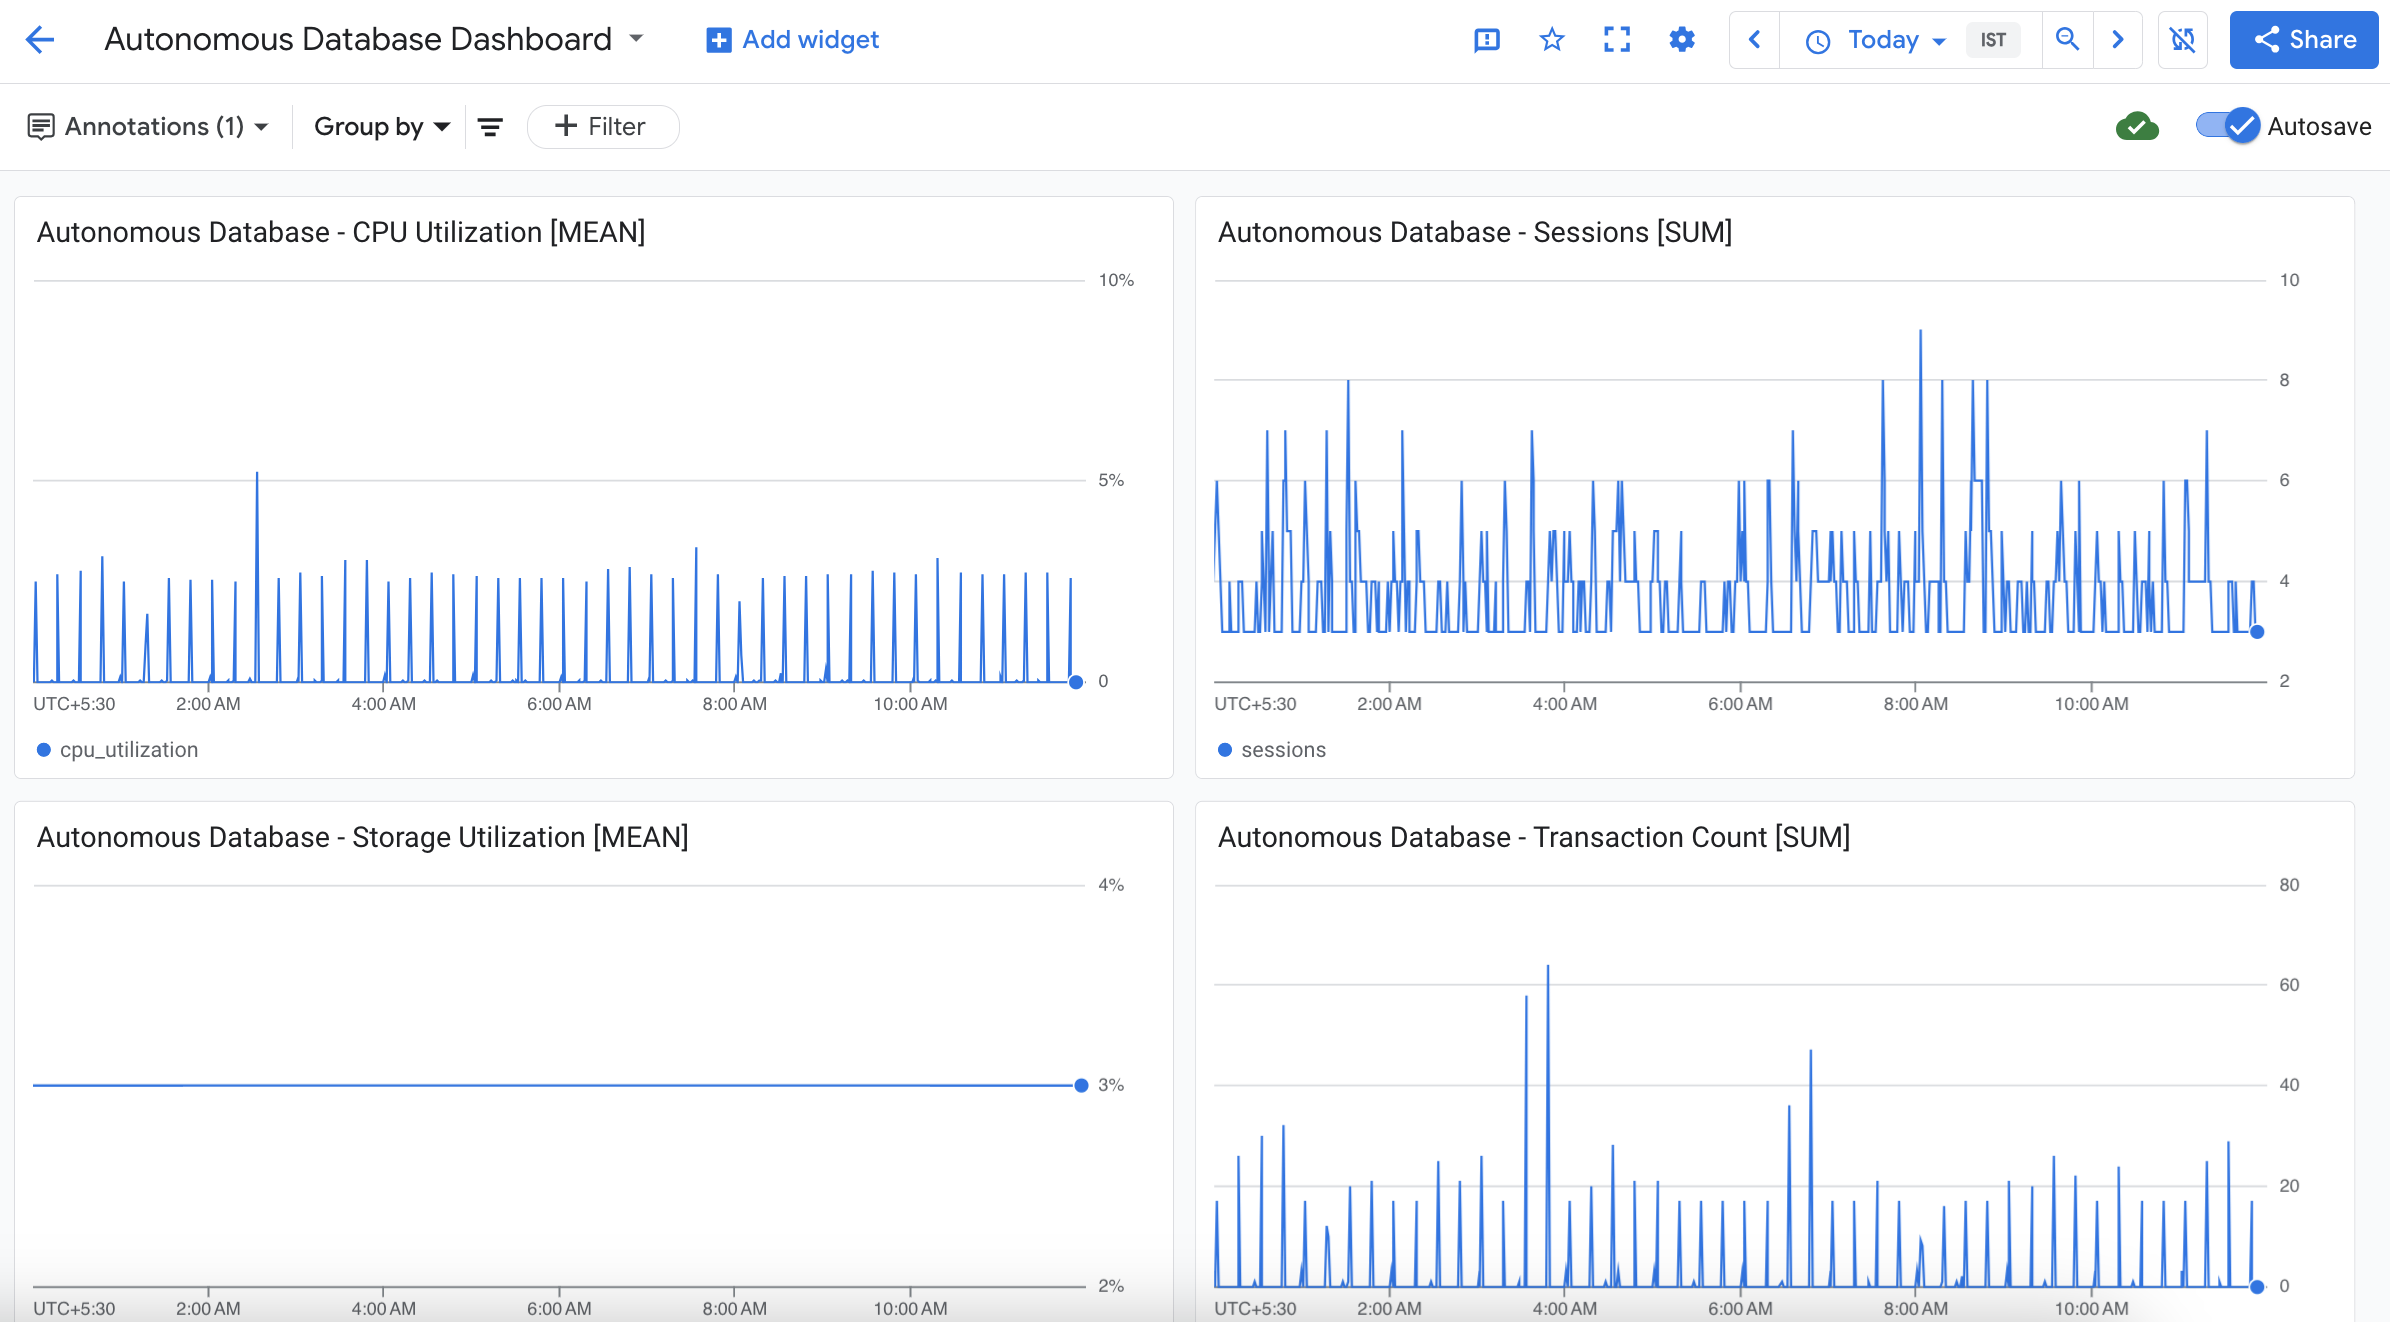
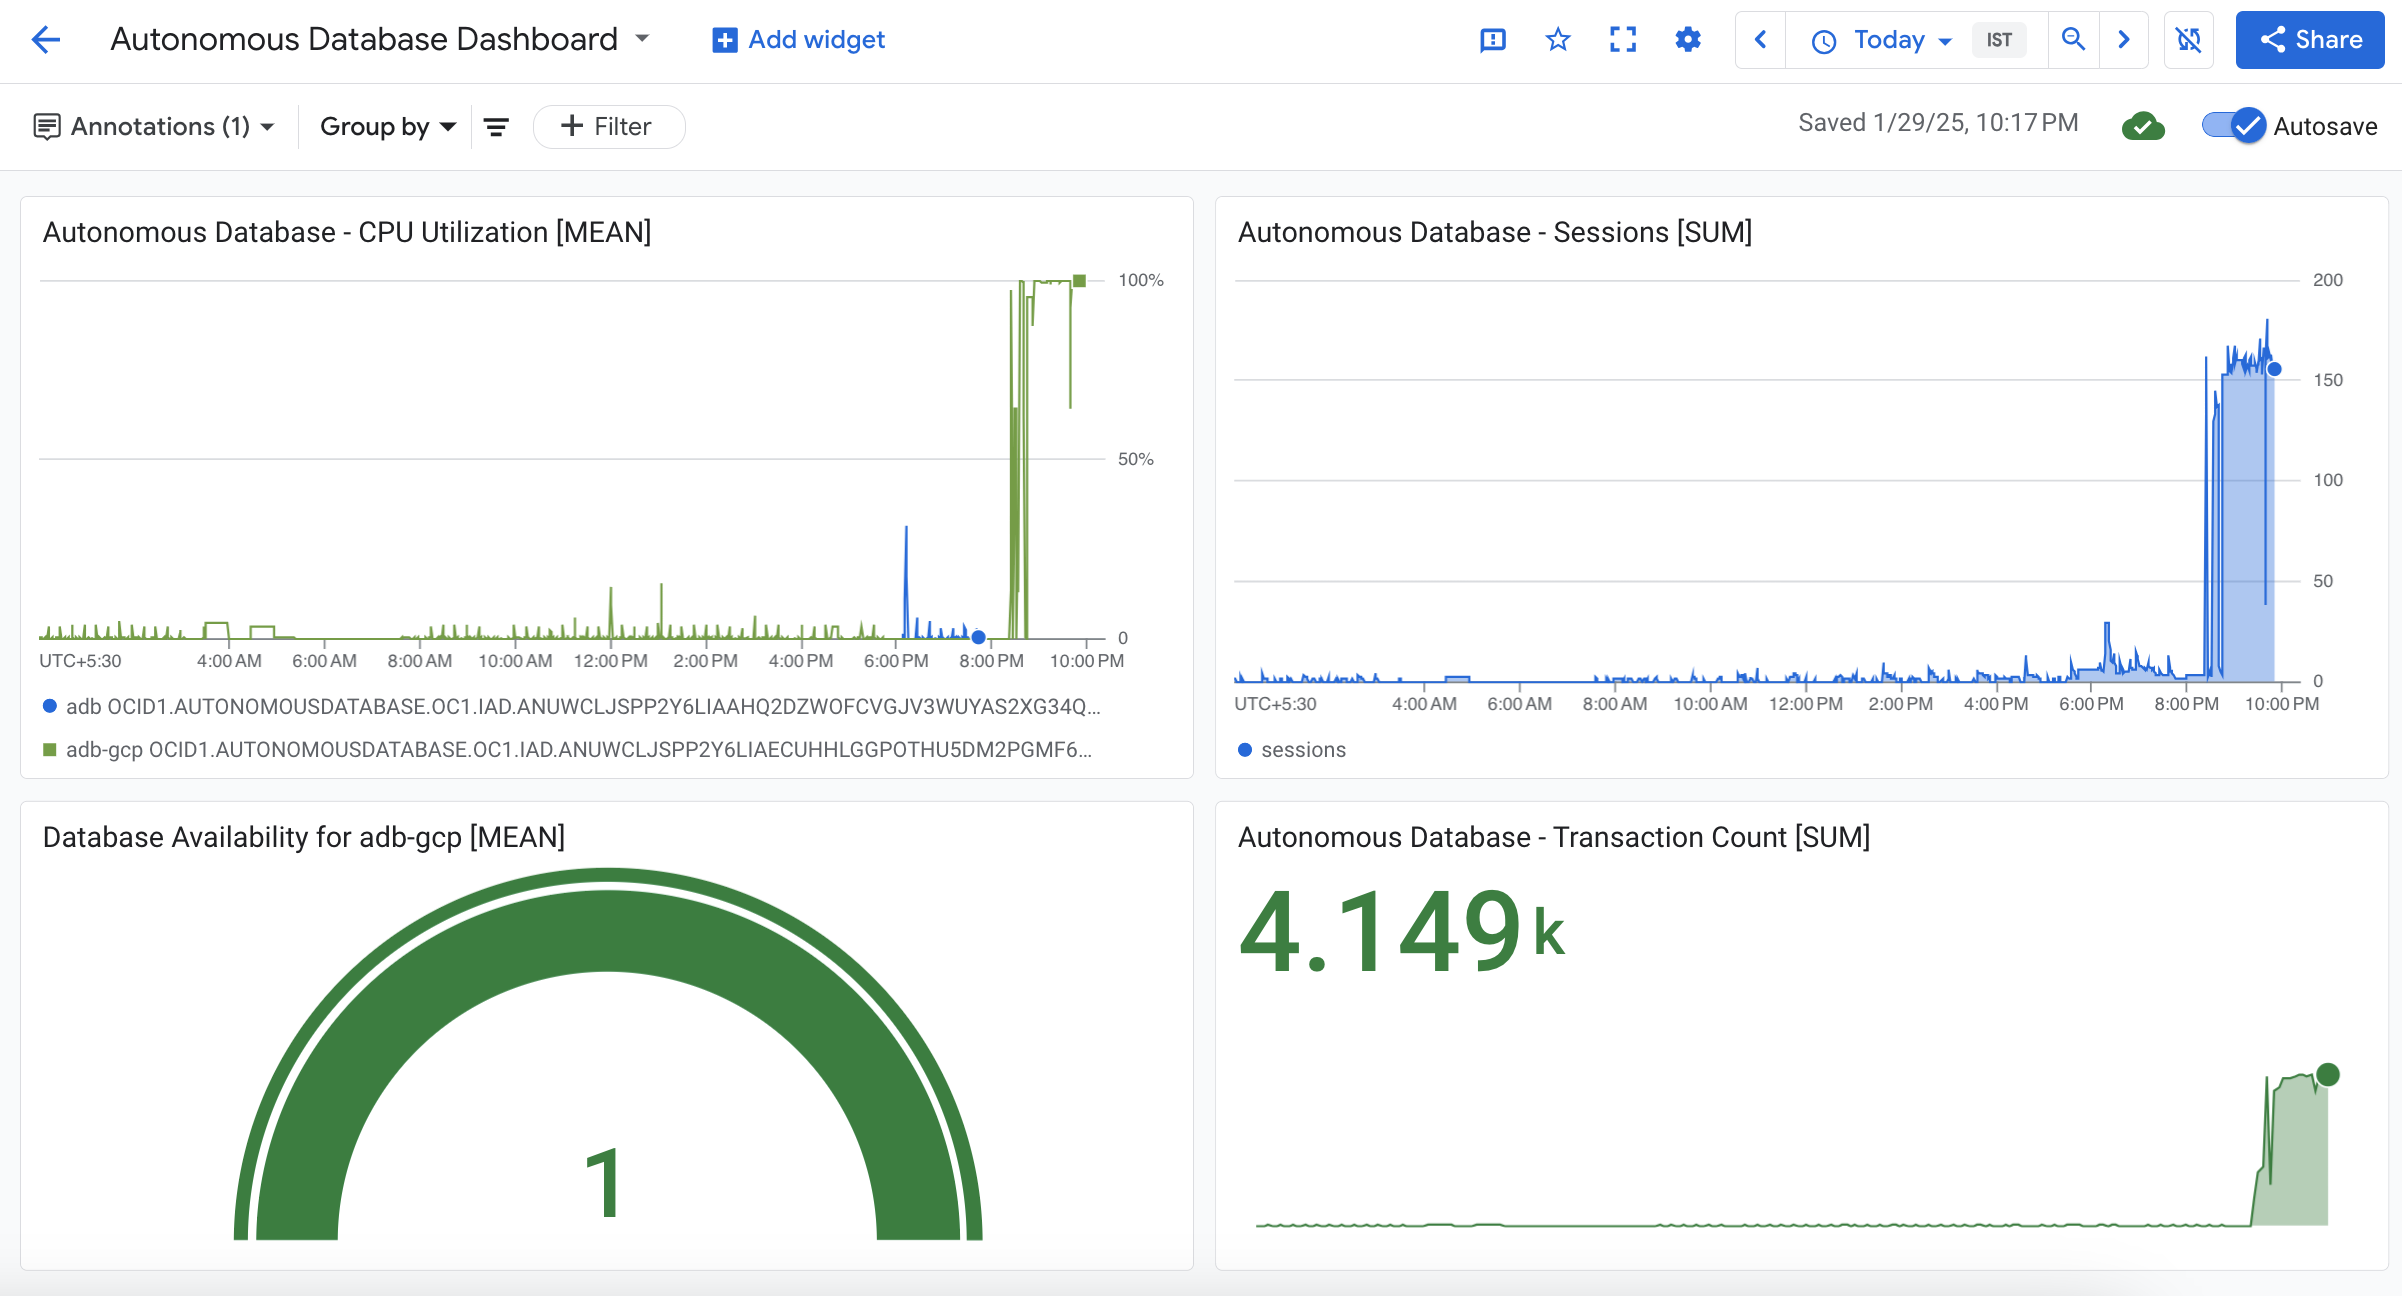
First draft

diff --git a/adb-gcp/connect-to-swingbech-app/connect-to-swingbech-app.md b/adb-gcp/connect-to-swingbech-app/connect-to-swingbech-app.md
@@ -4,6 +4,10 @@
 
 This lab walks you through how to install and configure a workload generation tool called Swingbench and monitor the performance of an Autonomous Database.
 
+Swingbench is a free load generator (and benchmarks) designed to stress test an Oracle database (12c, 18c, 19c, 21c, 23c). The software enables a load to be generated and the transactions/response times to be charted. The tool has both graphical and command line functionality. Learn more about Swingbench [here](https://www.dominicgiles.com/swingbench/).
+
+We will be installing Swingbench and running some fabricated workloads that can be monitored later.
+
 Estimated Time: 10 minutes
 
 ### Objectives
@@ -89,6 +93,8 @@ As an administrator:
 
 3. Download the Autonomous Database wallet file
 
+    **Oracle Autonomous Database** only accepts secure connections to the database. This requires a **'wallet'** file that contains the SQL\*NET configuration files and the secure connection information. Wallets are used by client utilities such as SQL Developer, SQL\*Plus etc. For this workshop, you will use this same wallet mechanism to make a connection from Swingbench to the **Autonomous Database**.
+
 - On the **Autonomous Database** page click the Autonomous Database that was provisioned.
 
     ![Download zip](./images/vm-adb-details.png " ")
@@ -105,7 +111,13 @@ As an administrator:
 
     ![Download zip](./images/adb-download-wallet.png " ")
     
-- Scp or Copy over the Wallet zip file to VM instance.
+- Scp or Copy over the Wallet zip file to VM instance. If you are using a Linux Terminal, run the following command to copy over the wallet to the VM instance -
+
+    ```
+    <copy>
+    scp -i <private_key_file> Wallet_adbgcp.zip <Compute_VM_IP>:/tmp/.
+    </copy>
+    ```
 
 ## Task 3: Connect the Swingbench application to Autonomous database
 
@@ -140,7 +152,7 @@ cd ~/swingbench/bin
 
 ![oewizard](./images/oewizard-verify.png " ")
 
-- Edit the config file to not exceed the login rate
+- Edit the config file :
 
     Run the following command from command line 
 
@@ -169,9 +181,9 @@ sed -i -e 's/<LogonGroupCount>1<\/LogonGroupCount>/<LogonGroupCount>5<\/LogonGro
             -intermax 0 \
             -min 0 \
             -max 0 \
-            -uc 128 \
+            -uc 150 \
             -di SQ,WQ,WA \
-            -rt 0:0.30
+            -rt 1:0.0
     </copy>
     ```
 
@@ -179,6 +191,8 @@ sed -i -e 's/<LogonGroupCount>1<\/LogonGroupCount>/<LogonGroupCount>5<\/LogonGro
     ![Swingbench wizard](./images/swingbench-load-run.png " ")
 
 - You should now see the Transaction happening in your Autonomous database. 
+
+- We are going to monitor the Autonomous Database using Google Cloud Monitoring in the next lab.
 
 ***NOTE: Do not disconnect the Swingbench application***
 

diff --git a/adb-gcp/gcp-get-started/gcp-get-started.md b/adb-gcp/gcp-get-started/gcp-get-started.md
@@ -60,15 +60,19 @@ In this section, you will create a VPC which will have two subnets:
 
 ## Task 2:  Provision Google Cloud Compute VM Instance
 
-1.  From the Google Cloud Console (console.cloud.google.com), click on the **Navigation Menu**. Then click on **VM instances** under **Compute Engine**.
+1.  Generating ssh key pairs
+    
+    SSH keys are required to access a running compute VM instance securely. You can use an existing SSH-2 RSA key pair or create a new one. Instructions for creating SSH keys can also be found on the [OCI documentation page](https://docs.cloud.oracle.com/iaas/Content/GSG/Tasks/creatingkeys.htm). For Linux instances you can generate SSH keys [here](https://docs.oracle.com/en-us/iaas/Content/Compute/Tasks/managingkeypairs.htm#Managing_Key_Pairs_on_Linux_Instances).
+
+2. From the Google Cloud Console (console.cloud.google.com), click on the **Navigation Menu**. Then click on **VM instances** under **Compute Engine**.
 
     ![](./images/compute-vm-navigate.png " ")
 
-2. On the **VM instances** page click **CREATE INSTANCE**
+3. On the **VM instances** page click **CREATE INSTANCE**
 
     ![](./images/compute-vm-create.png " ")
 
-3. Under **Machine configuration** enter the following -
+4. Under **Machine configuration** enter the following -
 
     * **Name** - app-instance
     * **Region** - us-east4
@@ -76,9 +80,9 @@ In this section, you will create a VPC which will have two subnets:
 
     ![](./images/compute-vm-machine-config.png " ")
 
-4.  Leave all as default under **OS and storage**
+5.  Leave all as default under **OS and storage**
 
-5.  Click **Networking** on the left tab and enter the following -
+6.  Click **Networking** on the left tab and enter the following -
 
     * **Allow HTTP traffic** - Checkmark
     * **Allow HTTPS traffic** - Checkmark
@@ -96,11 +100,11 @@ In this section, you will create a VPC which will have two subnets:
 
     ![](./images/compute-vm-network-config.png " ")
 
-6.  Click **Security** on the left tab and enter the following. Click **MANAGE ACCESS** and click **ADD ITEM** under **Add manually generated SSH keys**. Enter the public ssh key. Click **CREATE** to create the VM instance.
+7.  Click **Security** on the left tab and enter the following. Click **MANAGE ACCESS** and click **ADD ITEM** under **Add manually generated SSH keys**. Enter the public ssh key. Click **CREATE** to create the VM instance.
 
     ![](./images/compute-vm-ssh-create.png " ")
 
-7.	The created VM instance will show up on the **VM instances** page -
+8.	The created VM instance will show up on the **VM instances** page -
 
     ![](./images/compute-vm-instance.png " ")
 

diff --git a/adb-gcp/adb-provisioning-databases/adb-provisioning-databases.md b/adb-gcp/adb-provisioning-databases/adb-provisioning-databases.md
@@ -54,9 +54,9 @@ In this section, you will be provisioning an Autonomous database using the Googl
 
 - Enter the password for admin user under **Administrator credentials**
 
-- Select 'app-network' for **Associated network** under Networking
+- In the **Associated network** drop-down, select the network you want to use - 'app-network'. This is the VPC that contains the public subnet where compute VM instance is placed. This VPC is used to connect to the Autonomous Database subnet.
 
-- Enter CIDR range '10.2.0.0/24' for **Subnet range** under **Configure networking for your database**
+- Enter CIDR range '10.2.0.0/24' for **Subnet range** under **Configure networking for your database**. This is the IPv4 subnet range for your Autonomous Database. The database subnet range can't overlap with the subnet range of the VPC network specified under **Associated network**. The subnet range specified here will create a Private Subnet where the Autonomous Database will be placed. If a Private Subnet with this range exists, the database will be added to that private subnet.
 
     ![ADB Instance Details](./images/adb-credentials-network-cidr.png " ")
 
